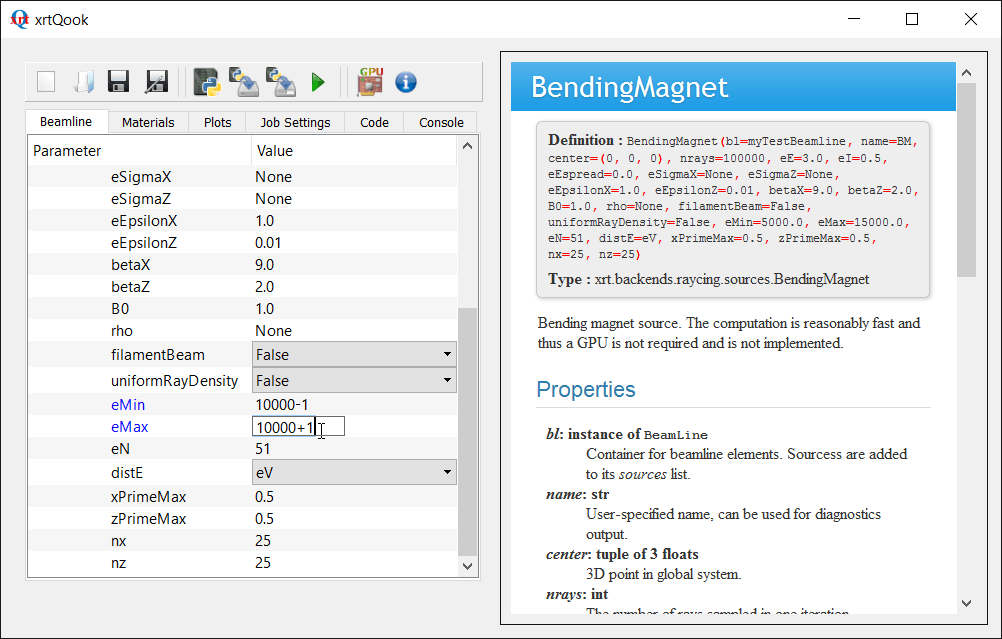
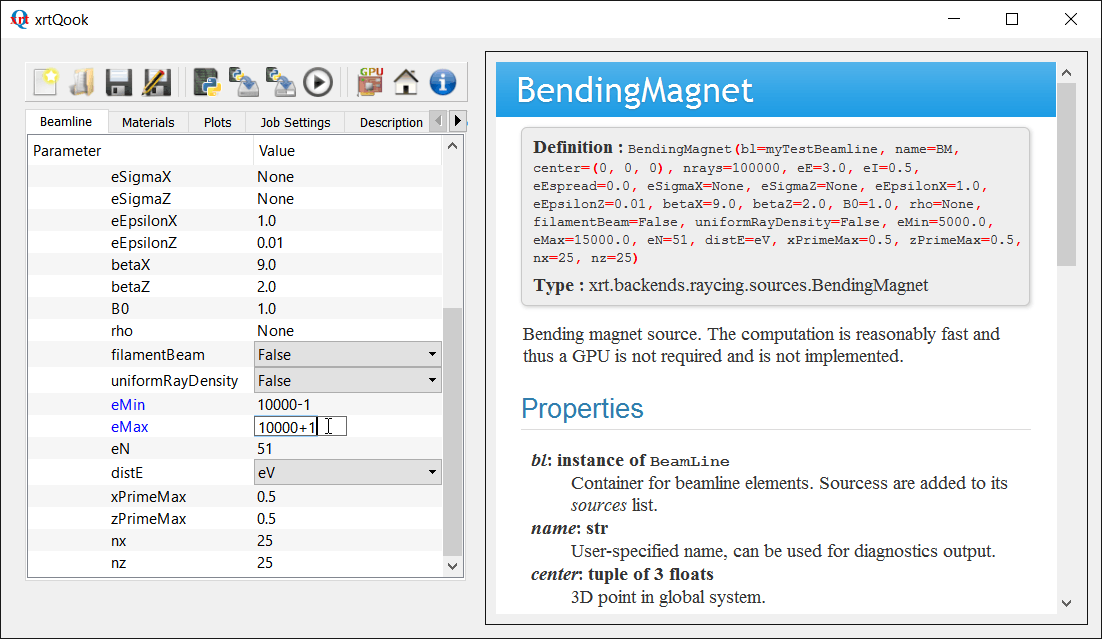
new screenshots
new screenshots, new welcome text

diff --git a/__init__.py b/__init__.py
@@ -386,7 +386,7 @@ class XrtQook(QWidget):
         canvasSplitter.setChildrenCollapsible(False)
 
         mainWidget = QWidget()
-        mainWidget.setMinimumWidth(480)
+        mainWidget.setMinimumWidth(465)
         docWidget = QWidget()
         docWidget.setMinimumWidth(300)
         mainBox = QVBoxLayout()
@@ -861,10 +861,11 @@ Compute Units: {3}\nFP64 Support: {4}'.format(platform.name,
 
     def showWelcomeScreen(self):
         argDescr = """
+
         .. image:: _images/qookSplashSmall_ani.gif
 
-        If you don't know where to start, read this `tutorial
-        <tutorial>`_.
+        xrtQook is a qt-based GUI for using xrt without having to write python
+        scripts. See a short startup `tutorial <tutorial>`_.
 
         """
         self.showTutorial(argDescr,
